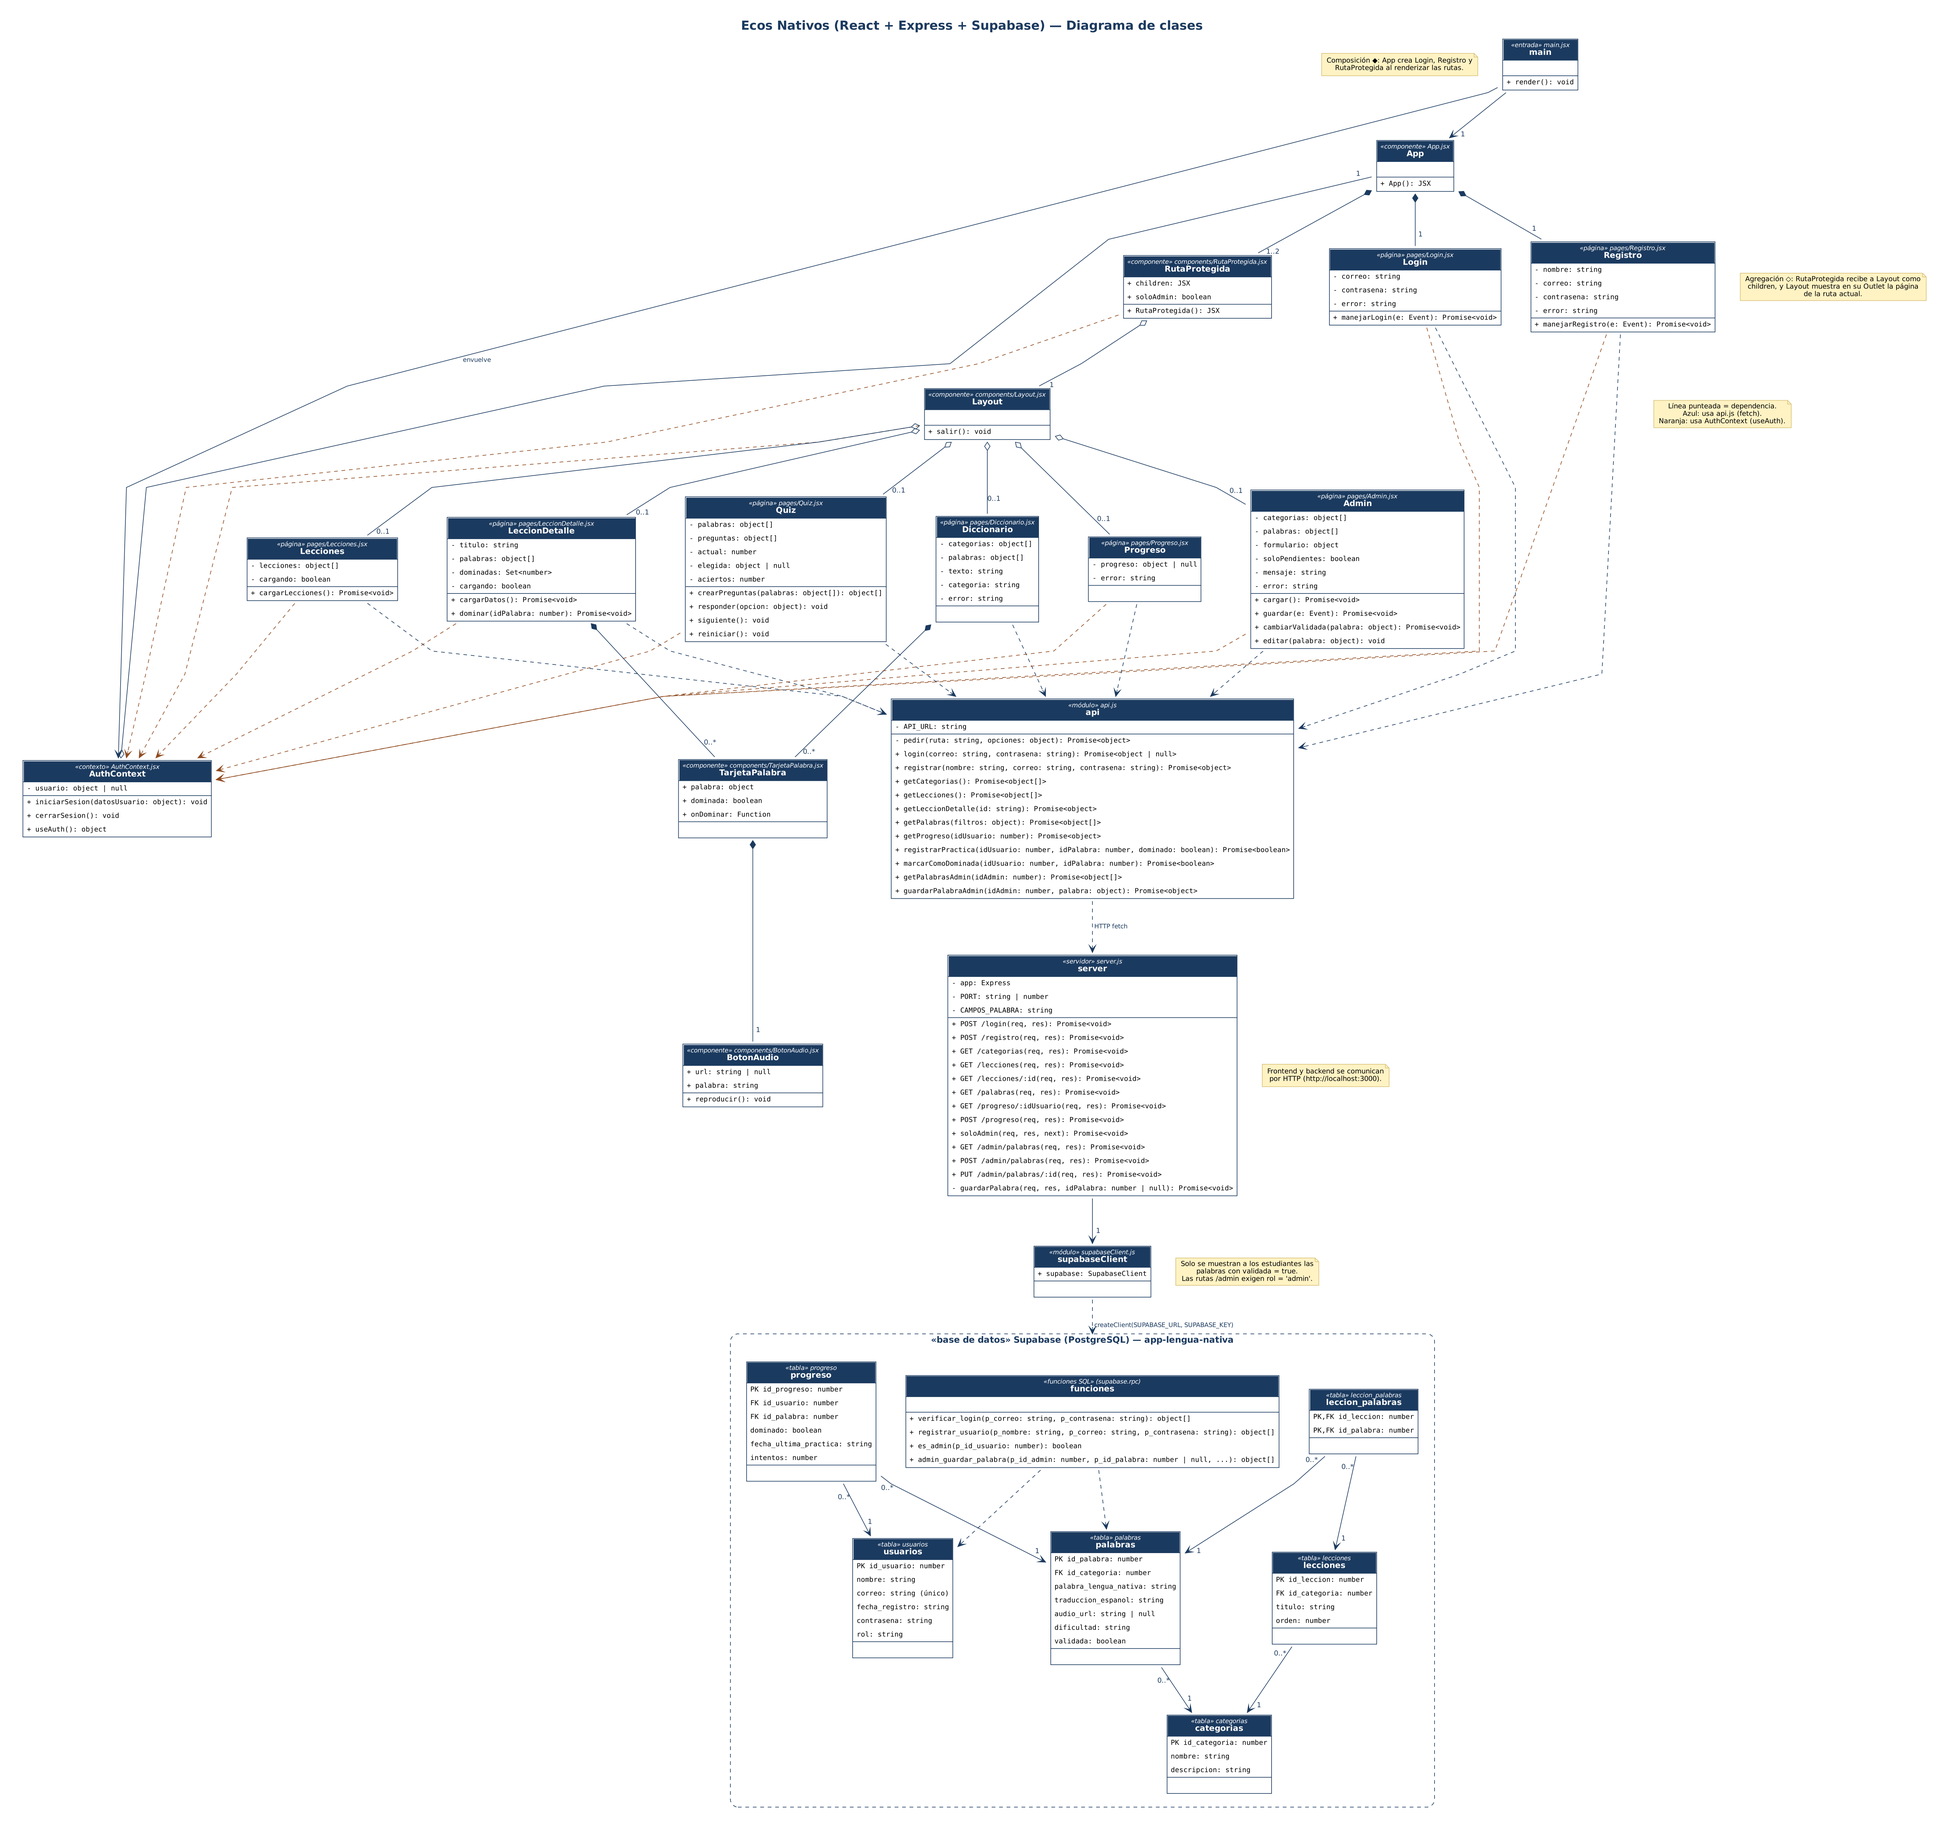
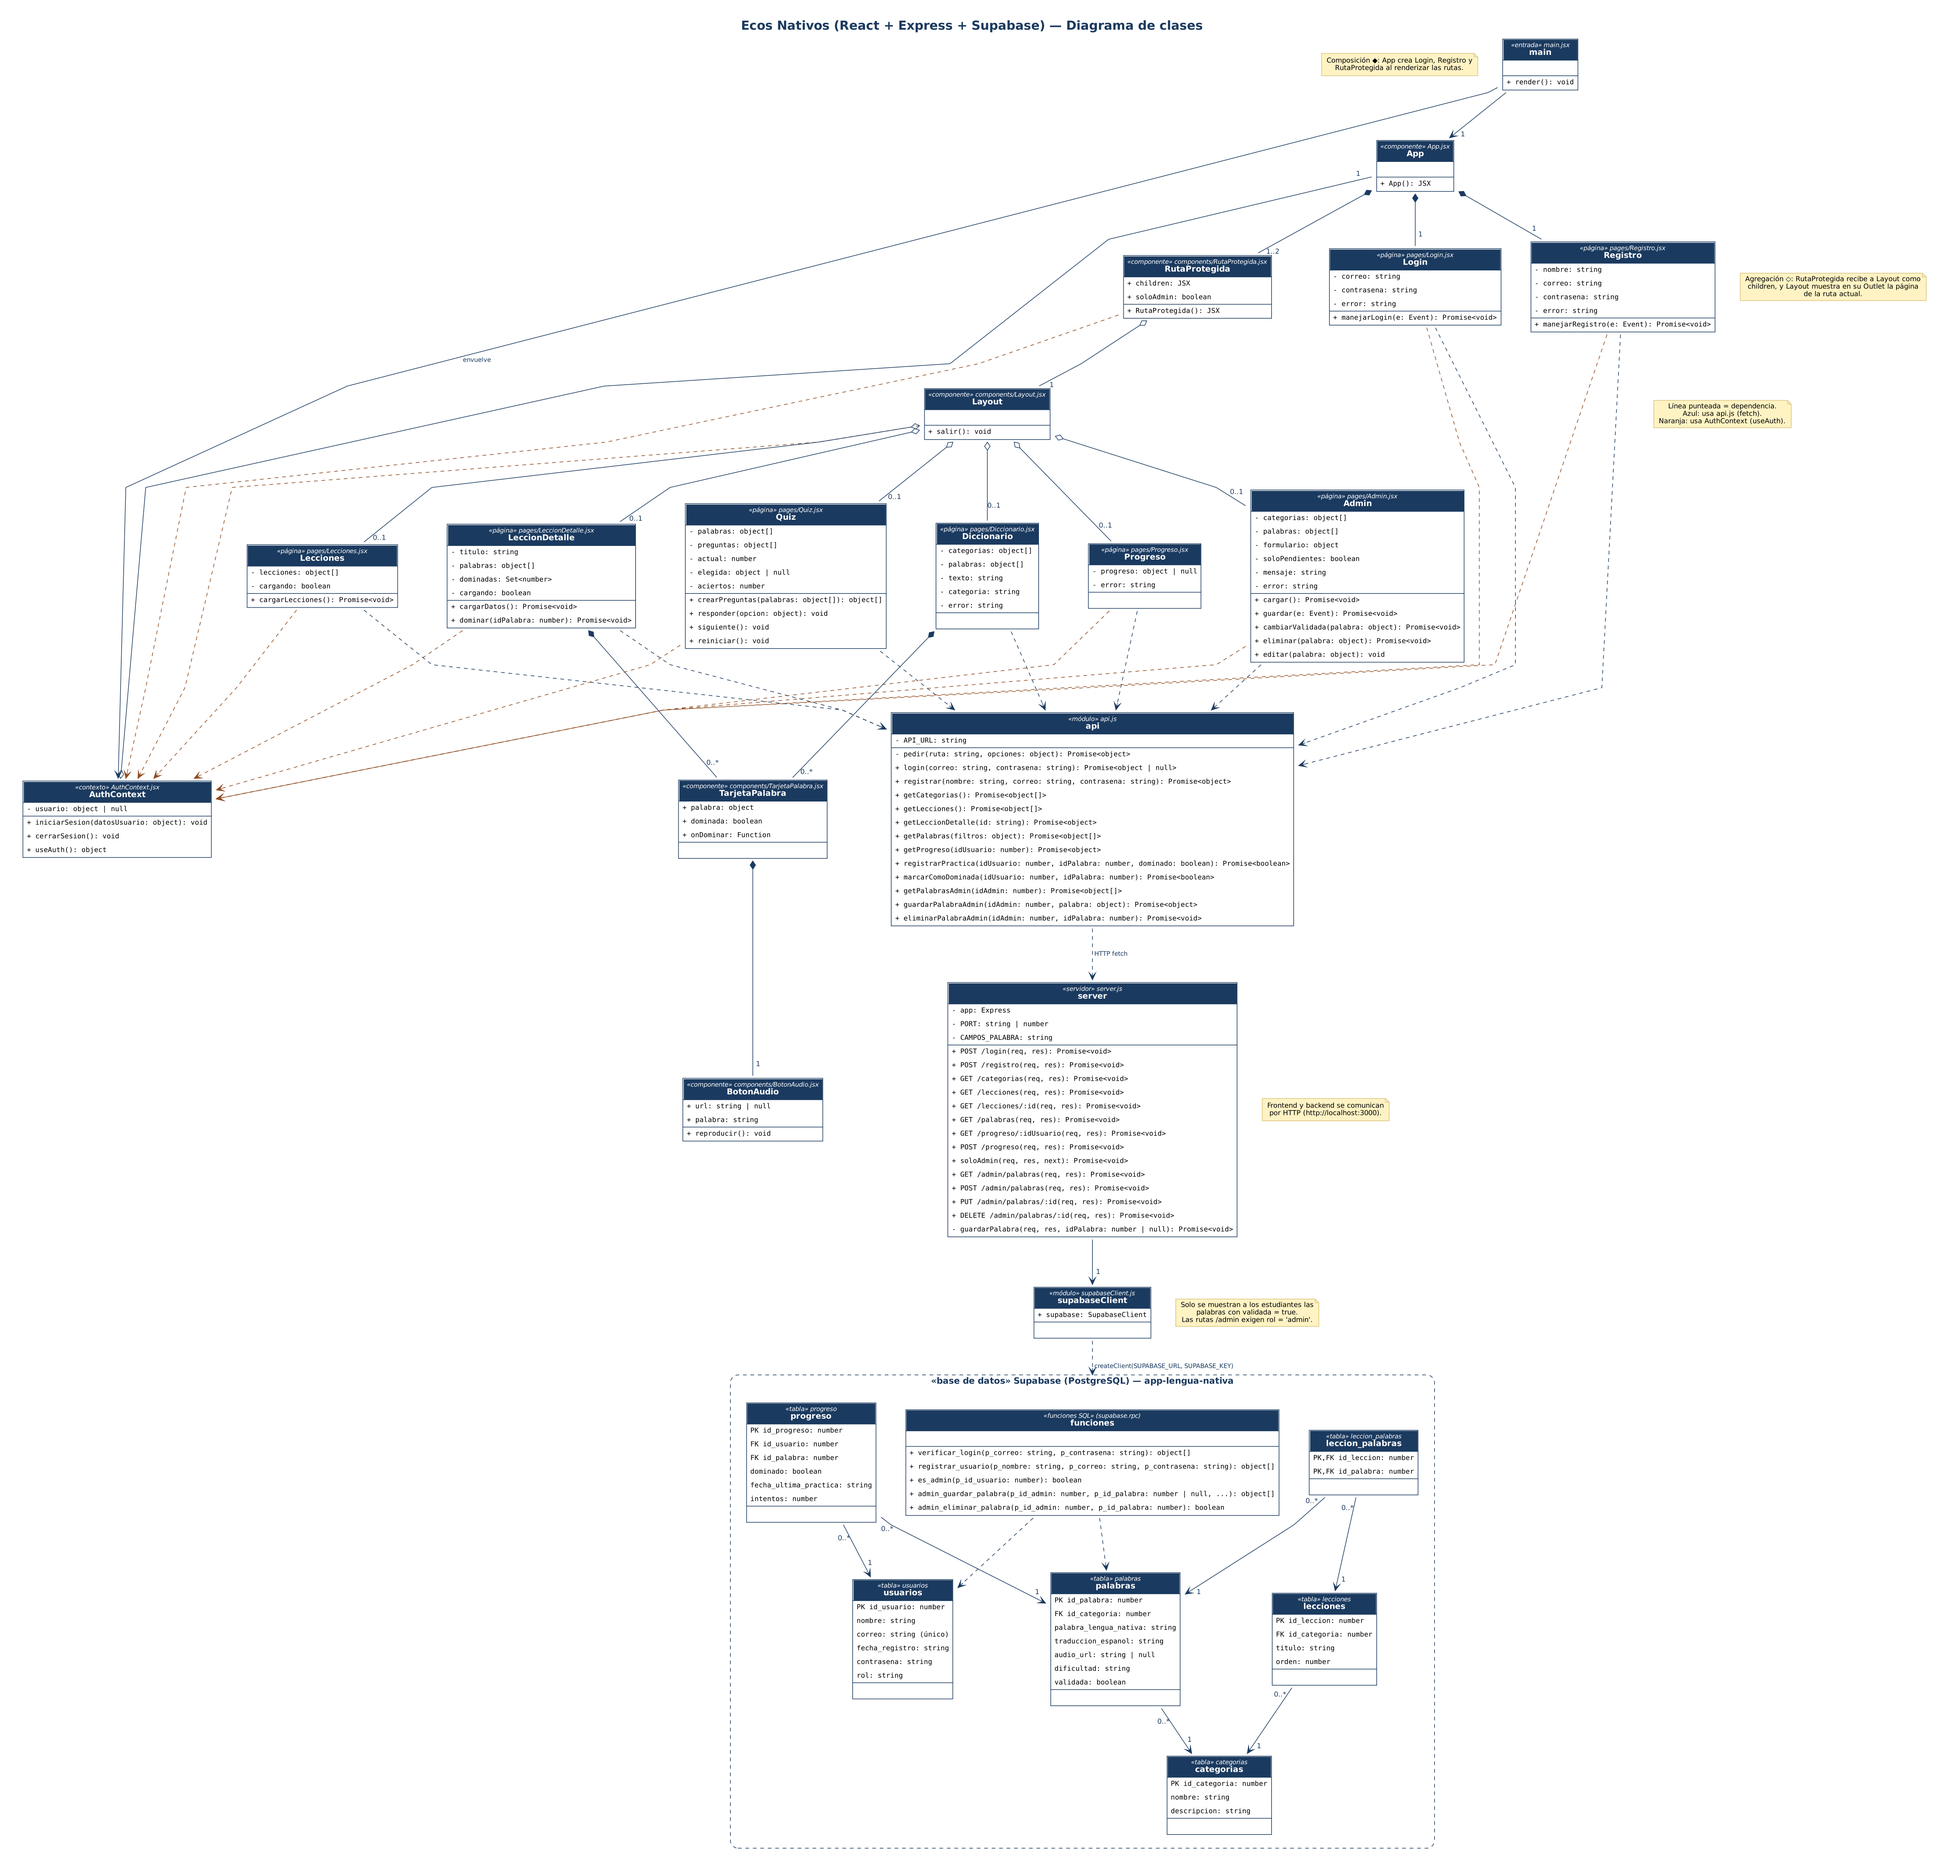
Agrega eliminar palabras (CRUD completo)

diff --git a/frontend/src/pages/Admin.jsx b/frontend/src/pages/Admin.jsx
@@ -1,5 +1,5 @@
 import { useEffect, useState } from 'react'
-import { getCategorias, getPalabrasAdmin, guardarPalabraAdmin } from '../api'
+import { getCategorias, getPalabrasAdmin, guardarPalabraAdmin, eliminarPalabraAdmin } from '../api'
 import { useAuth } from '../AuthContext'
 
 const PALABRA_VACIA = {
@@ -59,6 +59,23 @@ function Admin() {
     setError('')
     try {
       await guardarPalabraAdmin(usuario.id_usuario, { ...palabra, validada: !palabra.validada })
+      await cargar()
+    } catch (err) {
+      setError(err.message)
+    }
+  }
+
+  async function eliminar(palabra) {
+    const ok = window.confirm(
+      `¿Eliminar "${palabra.palabra_lengua_nativa}"? También se borra de las lecciones y del progreso de los estudiantes.`
+    )
+    if (!ok) return
+    setError('')
+    setMensaje('')
+    try {
+      await eliminarPalabraAdmin(usuario.id_usuario, palabra.id_palabra)
+      if (formulario.id_palabra === palabra.id_palabra) setFormulario(PALABRA_VACIA)
+      setMensaje('Palabra eliminada.')
       await cargar()
     } catch (err) {
       setError(err.message)
@@ -163,6 +180,7 @@ function Admin() {
                   <button className="btn-mini" onClick={() => cambiarValidada(p)}>
                     {p.validada ? 'Quitar validación' : 'Validar'}
                   </button>
+                  <button className="btn-mini btn-mini--peligro" onClick={() => eliminar(p)}>Eliminar</button>
                 </td>
               </tr>
             ))}

diff --git a/frontend/src/api.js b/frontend/src/api.js
@@ -9,6 +9,7 @@ async function pedir(ruta, opciones = {}) {
     headers: { 'Content-Type': 'application/json', ...opciones.headers },
     body: opciones.body ? JSON.stringify(opciones.body) : undefined,
   });
+  if (res.status === 204) return null;
   const datos = await res.json().catch(() => null);
   if (!res.ok) throw new Error(datos?.error || 'No se pudo conectar con el servidor');
   return datos;
@@ -87,5 +88,12 @@ export function guardarPalabraAdmin(idAdmin, palabra) {
     method: editando ? 'PUT' : 'POST',
     headers: { 'x-id-usuario': idAdmin },
     body: palabra,
+  });
+}
+
+export function eliminarPalabraAdmin(idAdmin, idPalabra) {
+  return pedir(`/admin/palabras/${idPalabra}`, {
+    method: 'DELETE',
+    headers: { 'x-id-usuario': idAdmin },
   });
 }

diff --git a/backend/server.js b/backend/server.js
@@ -255,6 +255,18 @@ app.put('/admin/palabras/:id', soloAdmin, (req, res) =>
   guardarPalabra(req, res, Number(req.params.id))
 );
 
+// Eliminar una palabra (también borra su progreso y su lugar en las lecciones)
+app.delete('/admin/palabras/:id', soloAdmin, async (req, res) => {
+  const { data, error } = await supabase.rpc('admin_eliminar_palabra', {
+    p_id_admin: req.idAdmin,
+    p_id_palabra: Number(req.params.id),
+  });
+
+  if (error) return res.status(500).json({ error: error.message });
+  if (!data) return res.status(404).json({ error: 'Palabra no encontrada' });
+  res.status(204).send();
+});
+
 // =====================================================
 // Arrancar servidor
 // =====================================================

diff --git a/frontend/src/App.css b/frontend/src/App.css
@@ -574,6 +574,14 @@ h3 {
   background: var(--color-accent-bg);
 }
 
+.btn-mini--peligro {
+  color: var(--color-error);
+}
+
+.btn-mini--peligro:hover {
+  background: var(--color-error-bg);
+}
+
 .ok-text {
   margin-top: 0.9rem;
   color: var(--color-success);
